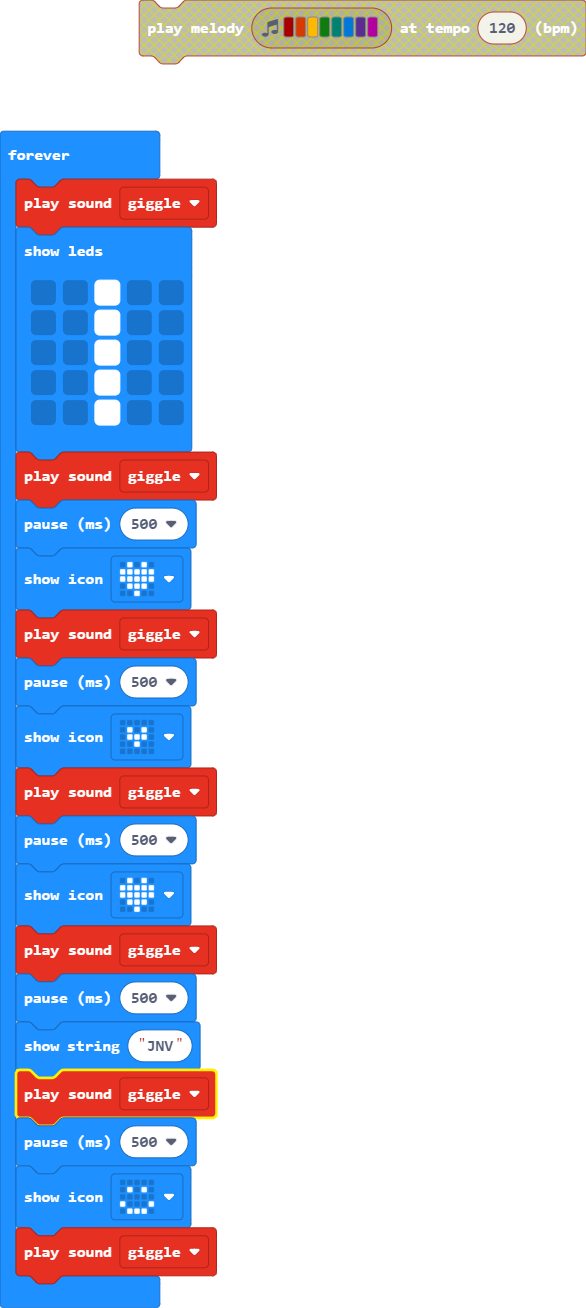
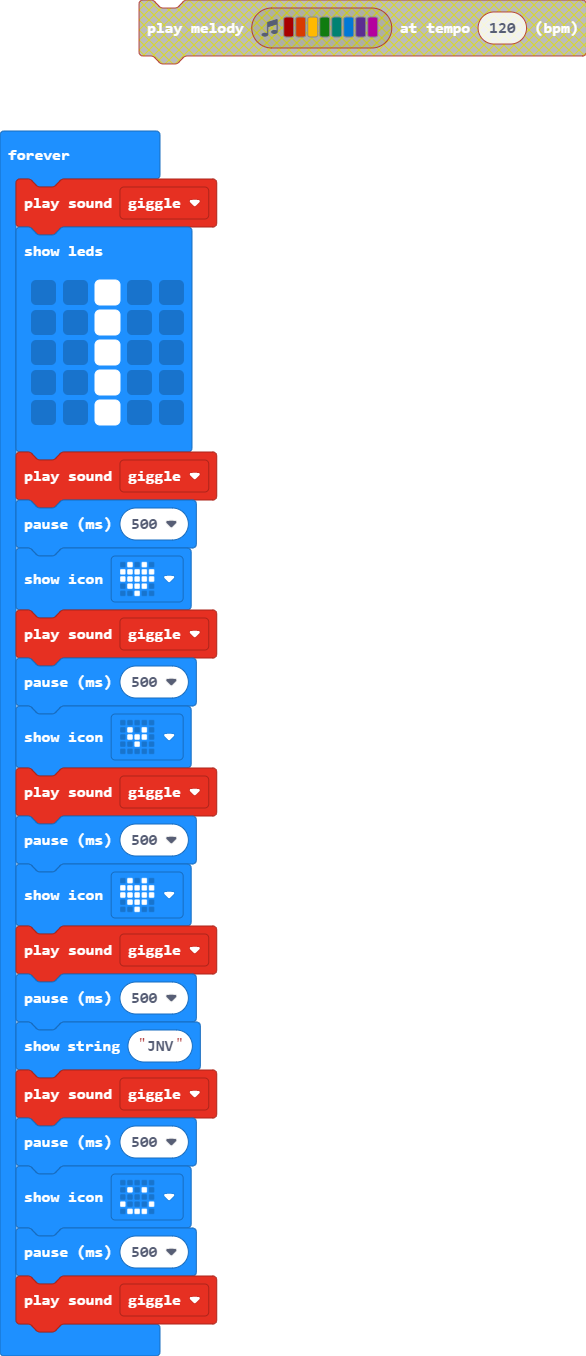
Update main.blocks, main.ts

Changed region(s): [[0.0, 0.0917, 0.3993, 1.0], [0.215, 0.0, 1.0, 0.0612]]

diff --git a/main.ts b/main.ts
@@ -22,5 +22,6 @@ basic.forever(function () {
     soundExpression.giggle.play()
     basic.pause(500)
     basic.showIcon(IconNames.Happy)
+    basic.pause(500)
     soundExpression.giggle.play()
 })
